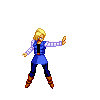
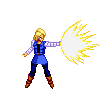
i did a really cool thing

Changed region(s): [[0.6, 0.18, 1.0, 0.66]]

diff --git a/project.html b/project.html
@@ -6,18 +6,19 @@
 	
 	<style>
 		#pause { 
-		position: absolute;
-        z-index: 2;
-        left: 575px;
-        top: 25px;
-		transform: scaleX(-1); 
+			position: absolute;
+			z-index: 2;
+			left: 575px;
+			top: 25px;
+			transform: scaleX(-1); 
 		}
+		
 		#play {
-         position: absolute;
-          z-index: 2;
-         left: 25px;
-         top: 25px;
-      }
+			position: absolute;
+			z-index: 2;
+			left: 25px;
+			top: 25px;
+		}
 	
 	</style>
 
@@ -26,31 +27,45 @@
 	window.onload = init;
 	let canvas, ctx, play, pause, audio, state, fighter, enemy;
 	
+	const BEAM_MIDDLE_COLOR = "#f3f3f3";
+	
 	// dictionary of beam colors based on fighter name
+	// beamColors[fighter][0] = darkest color	(first)
+	// beamColors[fighter][1] = mid	color		(second)
+	// beamColors[fighter][2] = lightest color	(third)
+	// then BEAM_MIDDLE_COLOR
+	
 	const beamColors = {
-		"goku" : "#00f0ff",
-		"vegeta" : "#fc00ff",
-		"teenGohan" : "#f8f878",
-		"futureTrunks" : "#f8f878",
-		"android18" : "#f8f878",
-		"cell" : "#00f0ff",
-		"majinbuu" : "#fc00ff",
-		"frieza" : "#fc00ff"				
+		"goku" : ["#009aa4", "#00cedb", "#00f0ff"],
+		"vegeta" : ["#9e00a0", "#d100d4", "#fc00ff"],
+		"teenGohan" : ["#f8c518", "#f0e030", "#f8f878"],
+		"futureTrunks" : ["#f8c518", "#f0e030", "#f8f878"],
+		"android18" : ["#f8c518", "#f0e030", "#f8f878"],
+		"cell" : ["#009aa4", "#00cedb", "#00f0ff"],
+		"majinbuu" : ["#9e00a0", "#d100d4", "#fc00ff"],
+		"frieza" : ["#9e00a0", "#d100d4", "#fc00ff"]				
 	};
+	
+	// Change these when changing CSS positioning of fighter/enemy. 
+	// FIGHTER_X = left, FIGHTER_Y = top. Used in beamPos calc.
+	const FIGHTER_X = 25;
+	const FIGHTER_Y = 25;
+
+	const BEAM_HEIGHT = 30;
 
 	// beamPos[fighter][0] = x
 	// beamPos[fighter][1] = y
-	// beamPos[fighter][2] = height
 	// width is changed based on time left in song
+	// height is BEAM_HEIGHT
 	const beamPos = {
-		"goku" : [75, 55, 30],
-		"vegeta" : [75, 55, 30],
-		"teenGohan" : [75, 55, 30],
-		"futureTrunks" : [75, 55, 30],
-		"android18" : [75, 55, 30],
-		"cell" : [75, 55, 30],
-		"majinbuu" : [75, 55, 30],
-		"frieza" : [75, 55, 30]				
+		"goku" : [60 + FIGHTER_X, 30 + FIGHTER_Y],
+		"vegeta" : [60 + FIGHTER_X, 20 + FIGHTER_Y],
+		"teenGohan" : [55 + FIGHTER_X, 35 + FIGHTER_Y],
+		"futureTrunks" : [60 + FIGHTER_X, 11 + FIGHTER_Y],
+		"android18" : [70 + FIGHTER_X, 20 + FIGHTER_Y],
+		"cell" : [67 + FIGHTER_X, 22 + FIGHTER_Y],
+		"majinbuu" : [68 + FIGHTER_X, 25 + FIGHTER_Y],
+		"frieza" : [70 + FIGHTER_X, 20 + FIGHTER_Y]				
 	};
 	
 	
@@ -67,9 +82,7 @@
 		fighter = "goku";
 		enemy = "frieza";
 		ctx.fillStyle = beamColors[fighter];
-		//ctx.fillRect(75,55,525,30);
-
-		console.log(audio.currentTime);
+		
 		//let audioCtx = new (window.AudioContext || window.webkitAudioContext); // to support Safari and mobile
 		//let sourceNode = audioCtx.createMediaElementSource(audio); 
 
@@ -82,7 +95,7 @@
 		//Pausing the music when the pause button is pressed, and setting the state to "Idle"
 		pause.onclick = function(e) {
 			audio.pause();
-			state = "Idle";
+			//state = "Idle";
 		};
 
 		document.querySelector("#songSelector").onchange = musicChange;
@@ -115,8 +128,18 @@
 			let percent = audio.currentTime / audio.duration;
 			play.src = "media/" + fighter + "Play.png";
 			ctx.clearRect(0,0,600,600);
-			ctx.fillStyle = beamColors[fighter];
-			ctx.fillRect(beamPos[fighter][0], beamPos[fighter][1], 525 * percent, beamPos[fighter][2]);
+			
+			ctx.fillStyle = beamColors[fighter][0];
+			ctx.fillRect(beamPos[fighter][0], beamPos[fighter][1], 525 * percent, BEAM_HEIGHT);
+			
+			ctx.fillStyle = beamColors[fighter][1];
+			ctx.fillRect(beamPos[fighter][0], beamPos[fighter][1] + 2, 525 * percent, BEAM_HEIGHT - 4);
+			
+			ctx.fillStyle = beamColors[fighter][2];
+			ctx.fillRect(beamPos[fighter][0], beamPos[fighter][1] + 2.5, 525 * percent, BEAM_HEIGHT - 5);
+			
+			ctx.fillStyle = BEAM_MIDDLE_COLOR;
+			ctx.fillRect(beamPos[fighter][0], beamPos[fighter][1] + 4.5, 525 * percent, BEAM_HEIGHT - 9);
 
 
 		}
